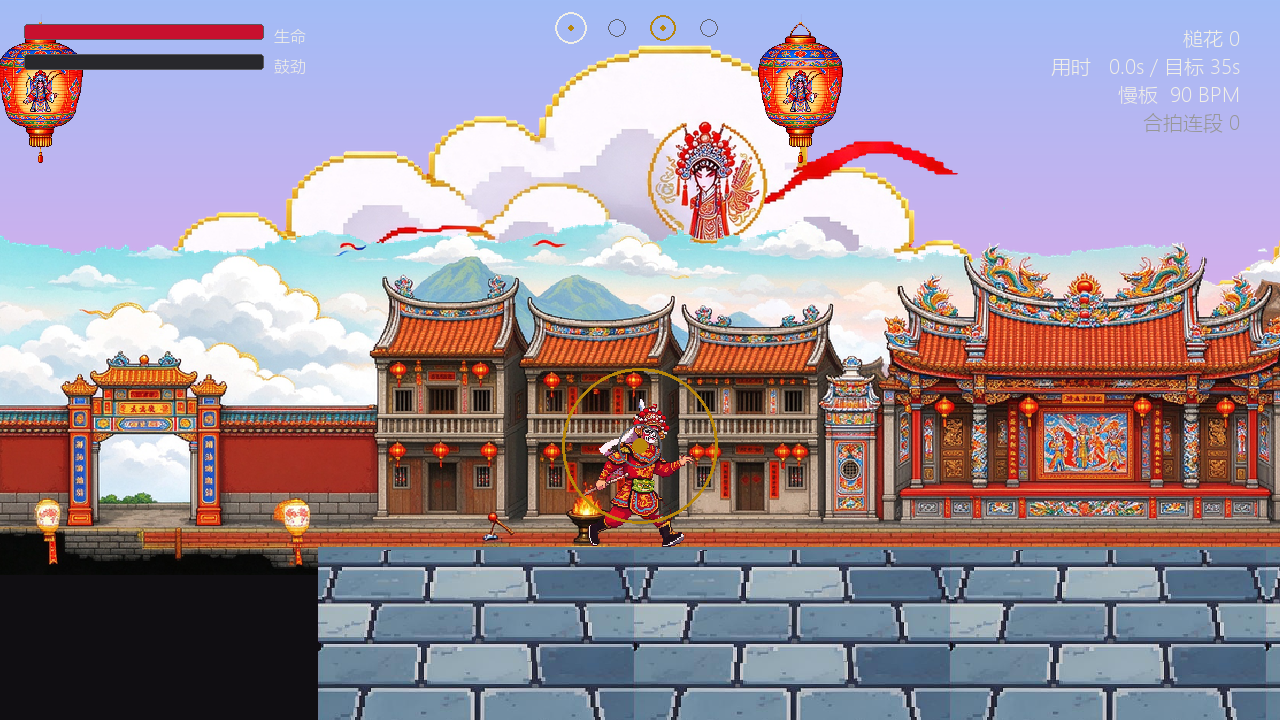
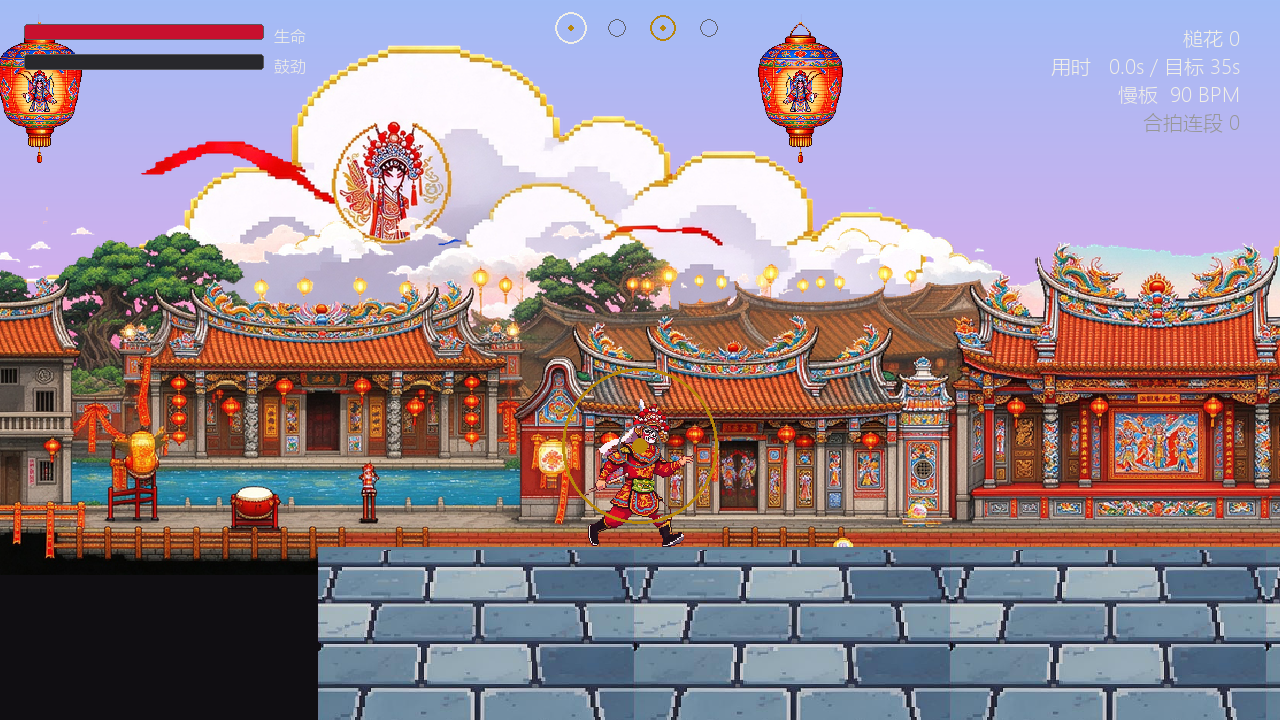
背景层改为镜像拼接，消除平铺接缝
- hud.py _blit_layer：相邻瓦片左右翻转拼接，拼接处两列像素同源、内容连续，接缝消失
- 镜像奇偶用世界锚定的瓦片序号判断，镜头移动时不会突然翻转
- 同步替换 README 三张展示截图与相关说明（接缝限制改为对称重复感）

diff --git a/README.md b/README.md
@@ -16,7 +16,7 @@
 
 ![收阵结算](screenshots/03_cleared.png)
 
-> 画面仍在迭代中：背景层目前是横向平铺，接缝处可见重复；`远景层` 素材尚未启用。
+> 画面仍在迭代中：背景层采用镜像拼接已消除平铺接缝，但会有对称重复感；`远景层` 素材尚未启用。
 
 ---
 
@@ -299,4 +299,4 @@ python tools/preview.py preview_out 14
 - **角色与敌人**已改用像素贴图；**缺图自动回退**程序化绘制（把 `assets/` 改名后游戏仍能正常运行、冒烟测试仍 PASS）
 - **渲染尺度**：`PIXELS_PER_UNIT = 80`，角色屏幕高约 149px
 - 层配置集中在 [hud.py](file:///d:/AI_APP/TRAE_WORK_data_YingGe/drumbeat-m0/drumbeat/hud.py) 顶部的 `PARALLAX_LAYERS` / `FOREGROUND_LAYER`（视差系数、缩放、锚点、平铺间距），改这几个数即可微调构图
-- **已知限制**：背景层为横向平铺，接缝处可见重复；`远景层` 四张素材已就位但当前配置未启用（与中景层重叠，留待 M2 做真正的分层远景）；中景层天空区仍有少量未清除的残留贴片
+- **已知限制**：背景层用「镜像拼接」（相邻瓦片左右翻转）消除接缝，代价是对称重复感；`远景层` 四张素材已就位但当前配置未启用（与中景层重叠，留待 M2 做真正的分层远景）；中景层天空区仍有少量未清除的残留贴片
